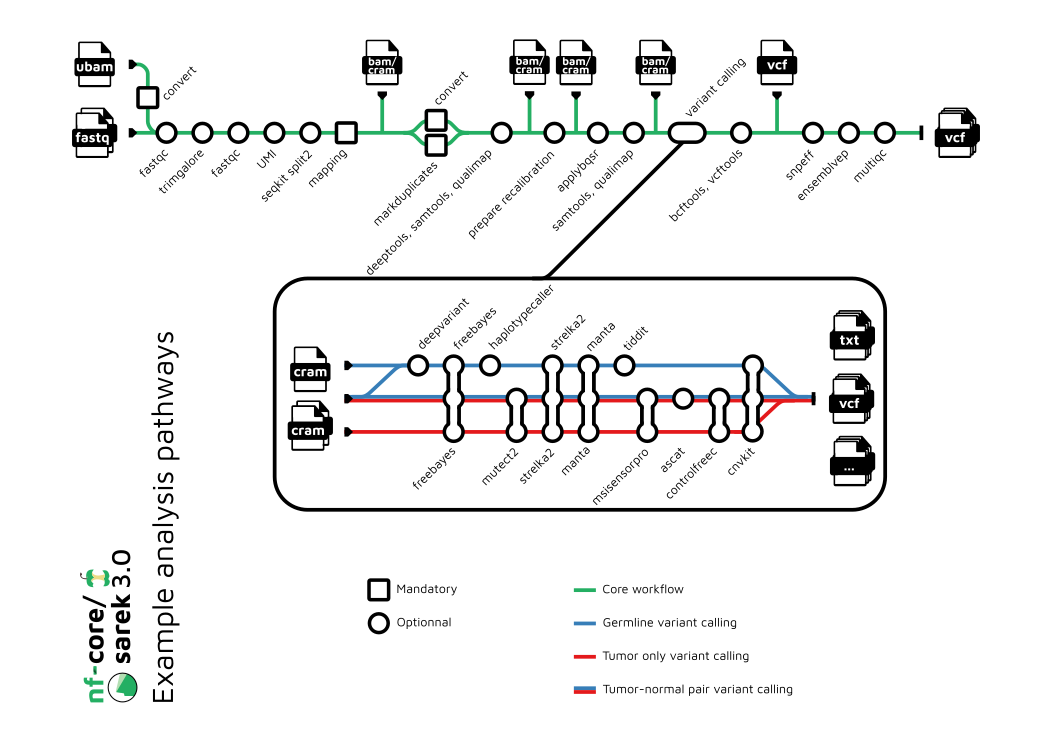
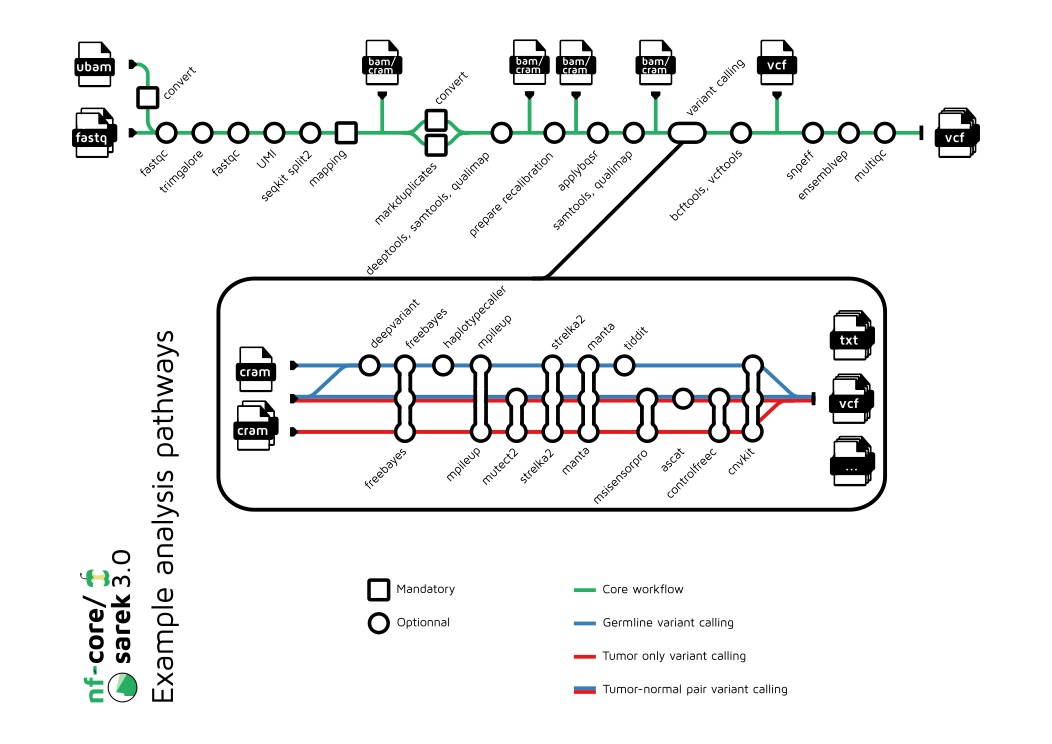
Changed test_tools, updated ci.yaml, removed mpileup from pair_varcalling, fixed space in germline_varcalling, updated subway map (text was slightly changed by inkscape automatically), updated Changelog

diff --git a/CHANGELOG.md b/CHANGELOG.md
@@ -32,7 +32,7 @@ and this project adheres to [Semantic Versioning](https://semver.org/spec/v2.0.0
 - [#582](https://github.com/nf-core/sarek/pull/582) - Added option `--vep_out_format` for setting the format of the output-file from VEP to `json`, `tab` or `vcf` (default)
 
 ### Changed
-
+- [#570](https://github.com/nf-core/sarek/pull/570) - Extract mpileup into its own subworkflow; zip mpileup files
 - [#383](https://github.com/nf-core/sarek/pull/383), [#528](https://github.com/nf-core/sarek/pull/528) - Update `CHANGELOG`
 - [#390](https://github.com/nf-core/sarek/pull/390) - Update `nextflow_schema.json`
 - [#408](https://github.com/nf-core/sarek/pull/408) - Sync `TEMPLATE` with `tools` `2.0.1`
